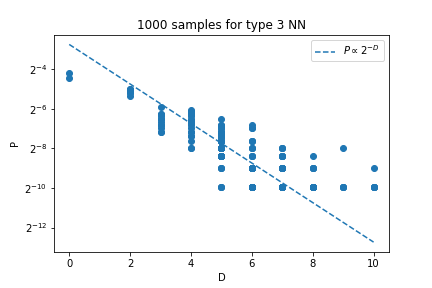
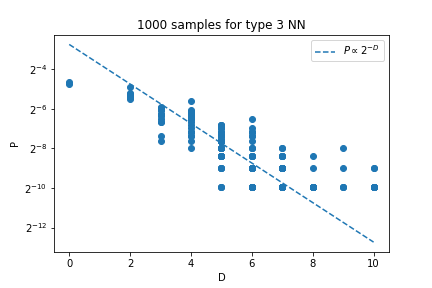
Added support to robustness for sampling W2 from -1,0,1

diff --git a/BoolFuncModule/RobustnessFunctions.py b/BoolFuncModule/RobustnessFunctions.py
@@ -27,6 +27,23 @@ def ternary(n, length=1):
             nums.append('0')
     return ''.join(reversed(nums))
 
+def biternary(n, length_binary, length_ternary):
+    # Returns a string to represent an input n in the form '{binary}'+'{ternary}' where length_binary (length_ternary) indicate the number of binary (ternary) digits
+    length = length_binary + length_ternary
+    if n==0:
+        return length*'0'
+    nums = []
+    for _ in range(length_ternary):
+        n, r = divmod(n, 3)
+        nums.append(str(r))
+    while n:
+        n, r = divmod(n, 2)
+        nums.append(str(r))
+    if length > len(nums):
+        for i in range(length-len(nums)):
+            nums.append('0')
+    return ''.join(reversed(nums))
+
 def is_hamming_pair(string1, string2):
     if len(string1) != len(string2):
         raise Exception('Input string sizes do not match')
@@ -70,29 +87,42 @@ def mutate_W1(W1, position):
             mutated_W1s.append(new_W1)
     return mutated_W1s
 
-def mutate_W2(W2, b2, position):
+def mutate_W2(W2, b2, position, base3=False):
     # Returns all possible mutations of b2 matrix for a point mutation
     if not isinstance(position, int):
         raise TypeError('position must be an integer.')
-    if ((1 in W2) and b2 == 1) or ((-1 in W2) and b2 == 0):
-        raise Exception('Incompatible W2 and b2 matrices')
+    #if ((1 in W2) and b2 == 1) or ((-1 in W2) and b2 == 0):
+    #    raise Exception('Incompatible W2 and b2 matrices')
     currentVal = W2[0,position]
-    if b2 == 0:
-        for newVal in [0, 1]:
+    if base3 is False:
+        if b2 == 0:
+            mutated_W2s = []
+            for newVal in [0, 1]:
+                if newVal != currentVal:
+                    new_W2 = np.copy(W2)
+                    new_W2[0, position] = newVal
+                    mutated_W2s.append(new_W2)
+            return mutated_W2s
+        elif b2 == 1:
+            mutated_W2s = []
+            for newVal in [-1, 0]:
+                if newVal != currentVal:
+                    new_W2 = np.copy(W2)
+                    new_W2[0, position] = newVal
+                    mutated_W2s.append(new_W2)
+            return mutated_W2s
+        else:
+            raise Exception('Invalid value for b2. Must be 0 or 1.')
+    if base3 is True:
+        mutated_W2s = []
+        for newVal in [-1, 0, 1]:
             if newVal != currentVal:
-                mutated_W2 = np.copy(W2)
-                mutated_W2[0,position] = newVal
-                return mutated_W2
-    elif b2 == 1:
-        for newVal in [-1, 0]:
-            if newVal != currentVal:
-                mutated_W2 = np.copy(W2)
-                mutated_W2[0,position] = newVal
-                return mutated_W2
-    else:
-        raise Exception('Invalid value for b2. Must be 0 or 1.')
+                new_W2 = np.copy(W2)
+                new_W2[0, position] = newVal
+                mutated_W2s.append(new_W2)
+        return mutated_W2s
     
-def robustness(parameters):
+def robustness(parameters, parameterType):
     W1, b1, W2, b2 = parameters
     functionTruthTable = truth_table(parameters)
     robustCount = 0
@@ -106,13 +136,16 @@ def robustness(parameters):
                     robustCount += 1
                 else:
                     notRobustCount += 1
-    for i in range(W2.shape[1]):
-        new_W2 = mutate_W2(W2, b2, i)
-        newParameters = (W1, b1, new_W2, b2)
-        if functionTruthTable == truth_table(newParameters):
-            robustCount += 1
-        else:
-            notRobustCount += 1
+    isBase3 = True if parameterType == 1 else False
+    if parameterType == 1:
+        for i in range(W2.shape[1]):
+            W2_mutations = mutate_W2(W2, b2, i, base3=isBase3)
+            for new_W2 in W2_mutations:
+                newParameters = (W1, b1, new_W2, b2)
+                if functionTruthTable == truth_table(newParameters):
+                    robustCount += 1
+                else:
+                    notRobustCount += 1
     robustness = robustCount/(robustCount + notRobustCount)
     return robustness
 

diff --git a/BoolFuncModule/BoolFunc.py b/BoolFuncModule/BoolFunc.py
@@ -67,7 +67,7 @@ class BoolFunc():
         return RF.truth_table(self.parameters)    
 
     def get_robustness(self):
-        return RF.robustness(self.parameters)
+        return RF.robustness(self.parameters, self.parameterType)
     
     def assign_parameters(self, parameters=None):
         if parameters is None:
@@ -84,7 +84,7 @@ class BoolFunc():
         if self.parameterType == 1:
             W1 = PA.uniform_matrix((2**(self.n-1), self.n))
             b1 = PA.assign_b1_from_W1(W1)
-            W2 = PA.assign_W2_from_W1(W1)
+            W2 = PA.uniform_matrix((1,2**(self.n-1)))
             b2 = PA.zero_or_one()
 
             if b2 == 1:
